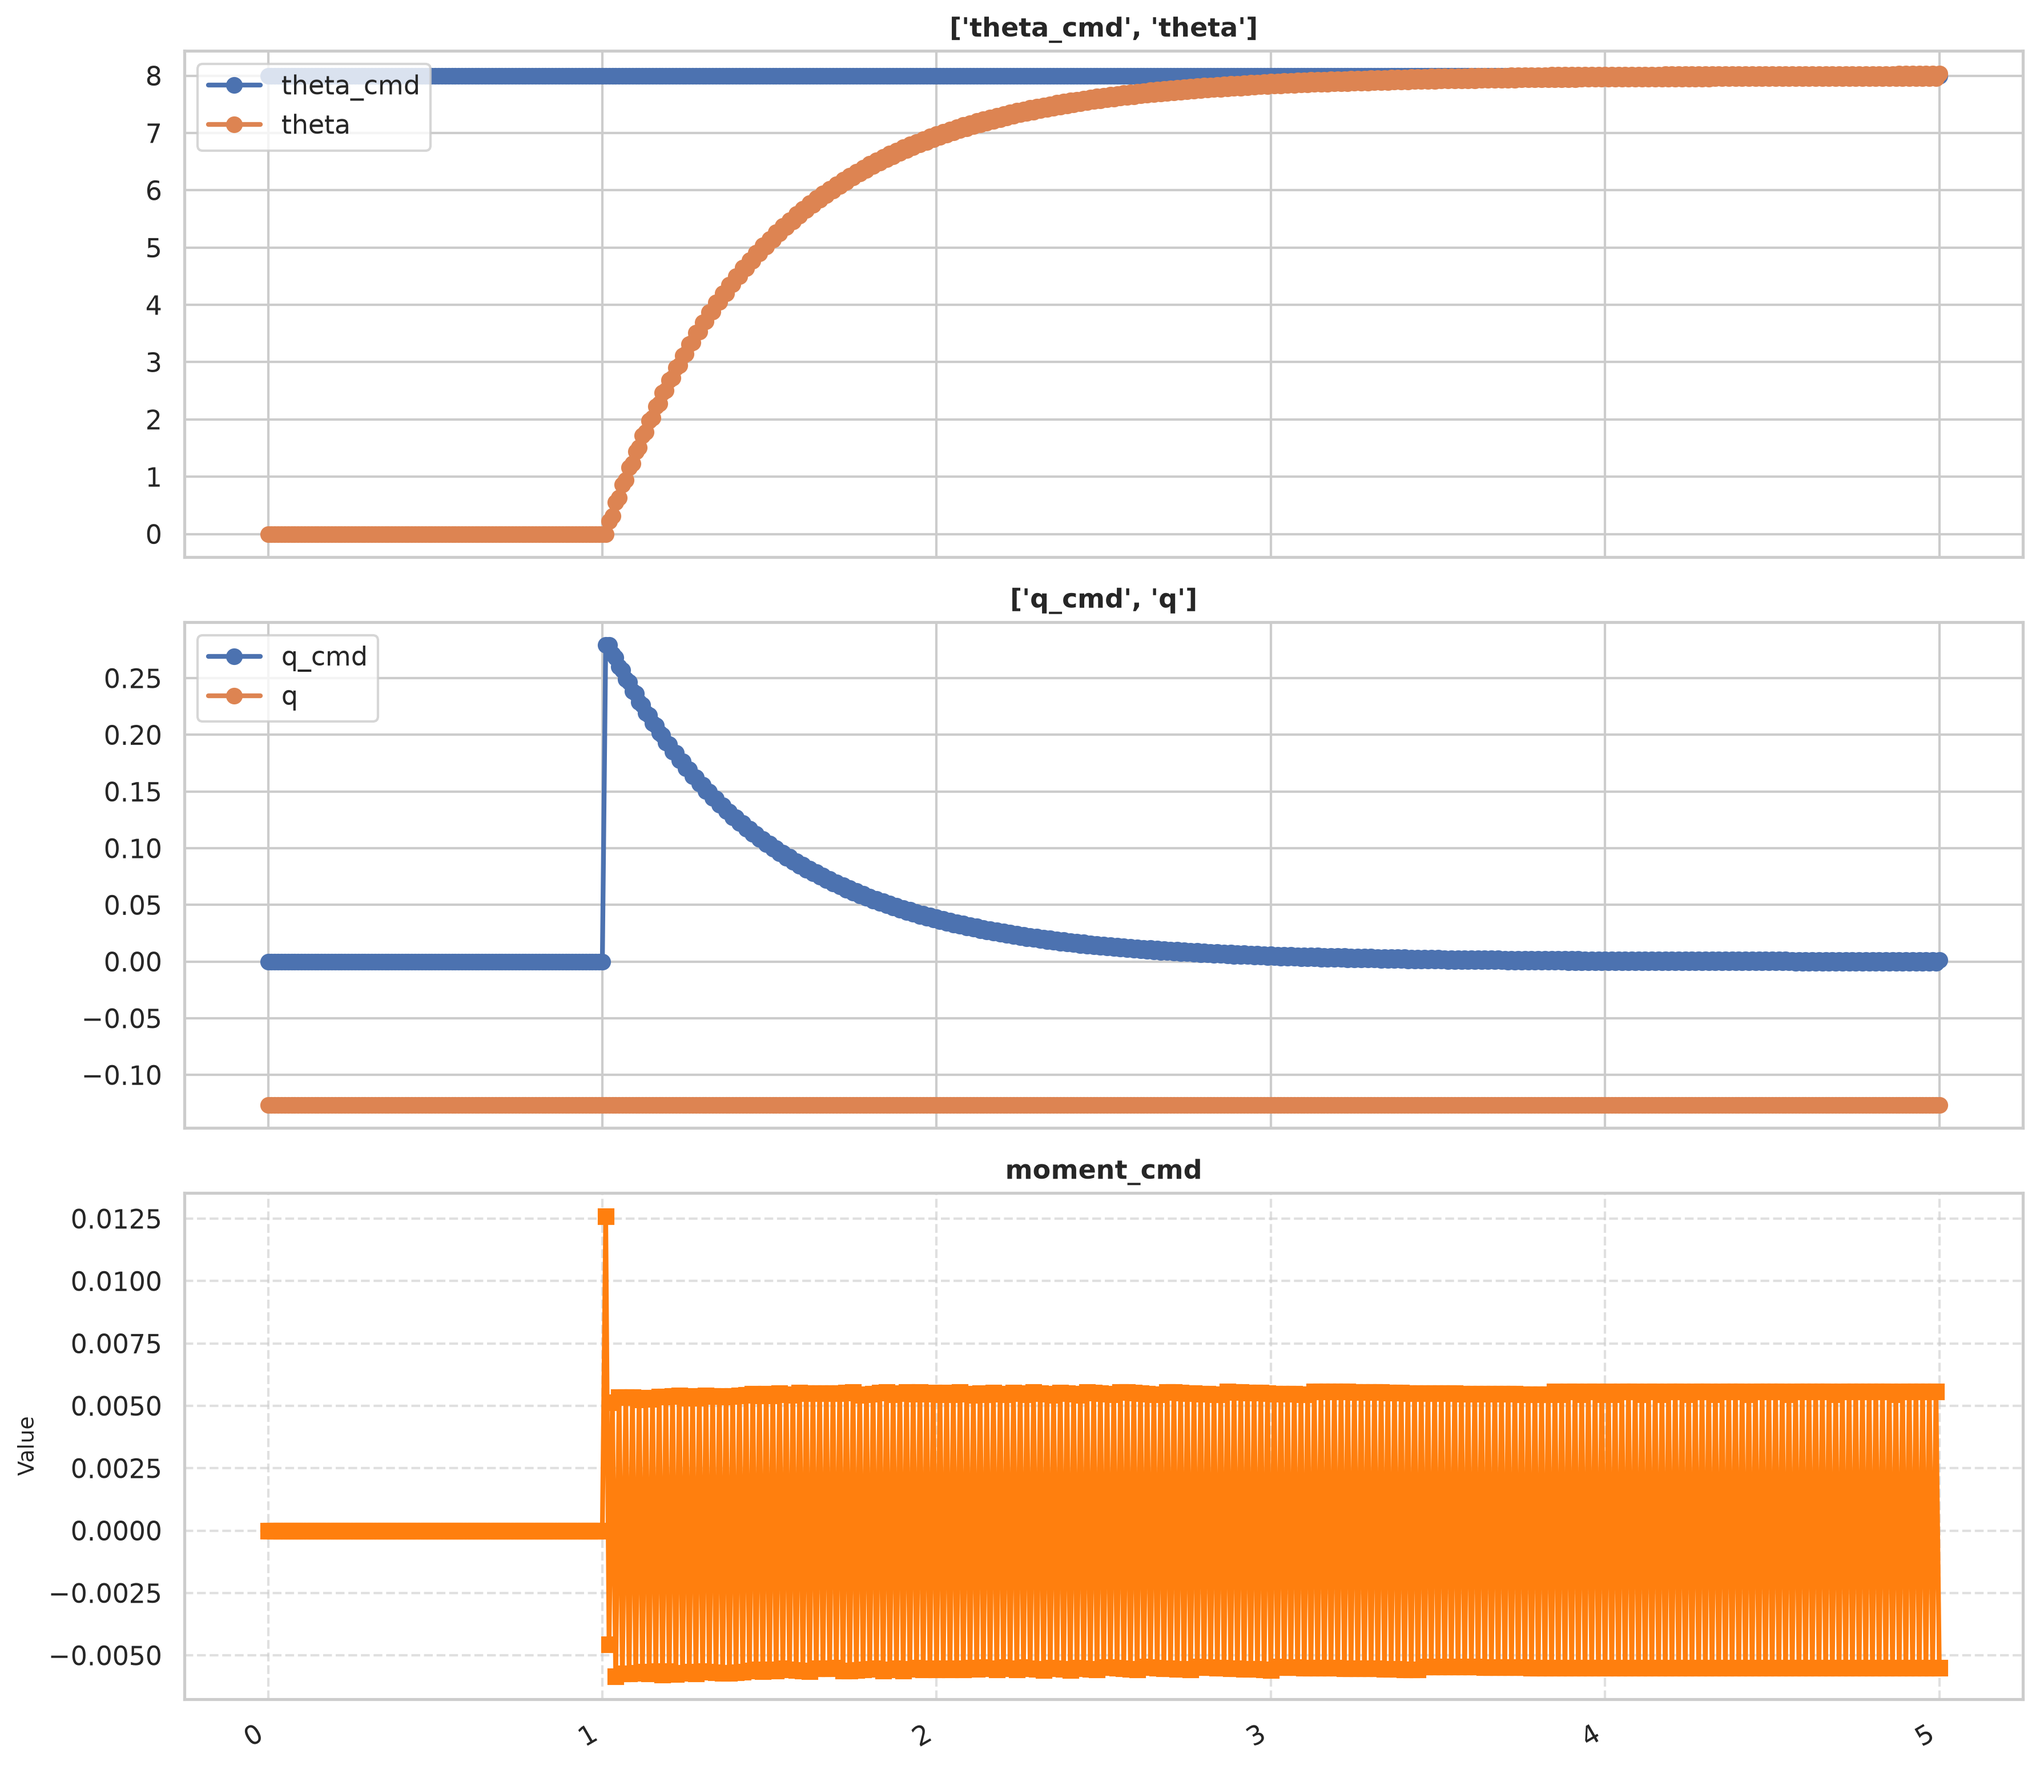
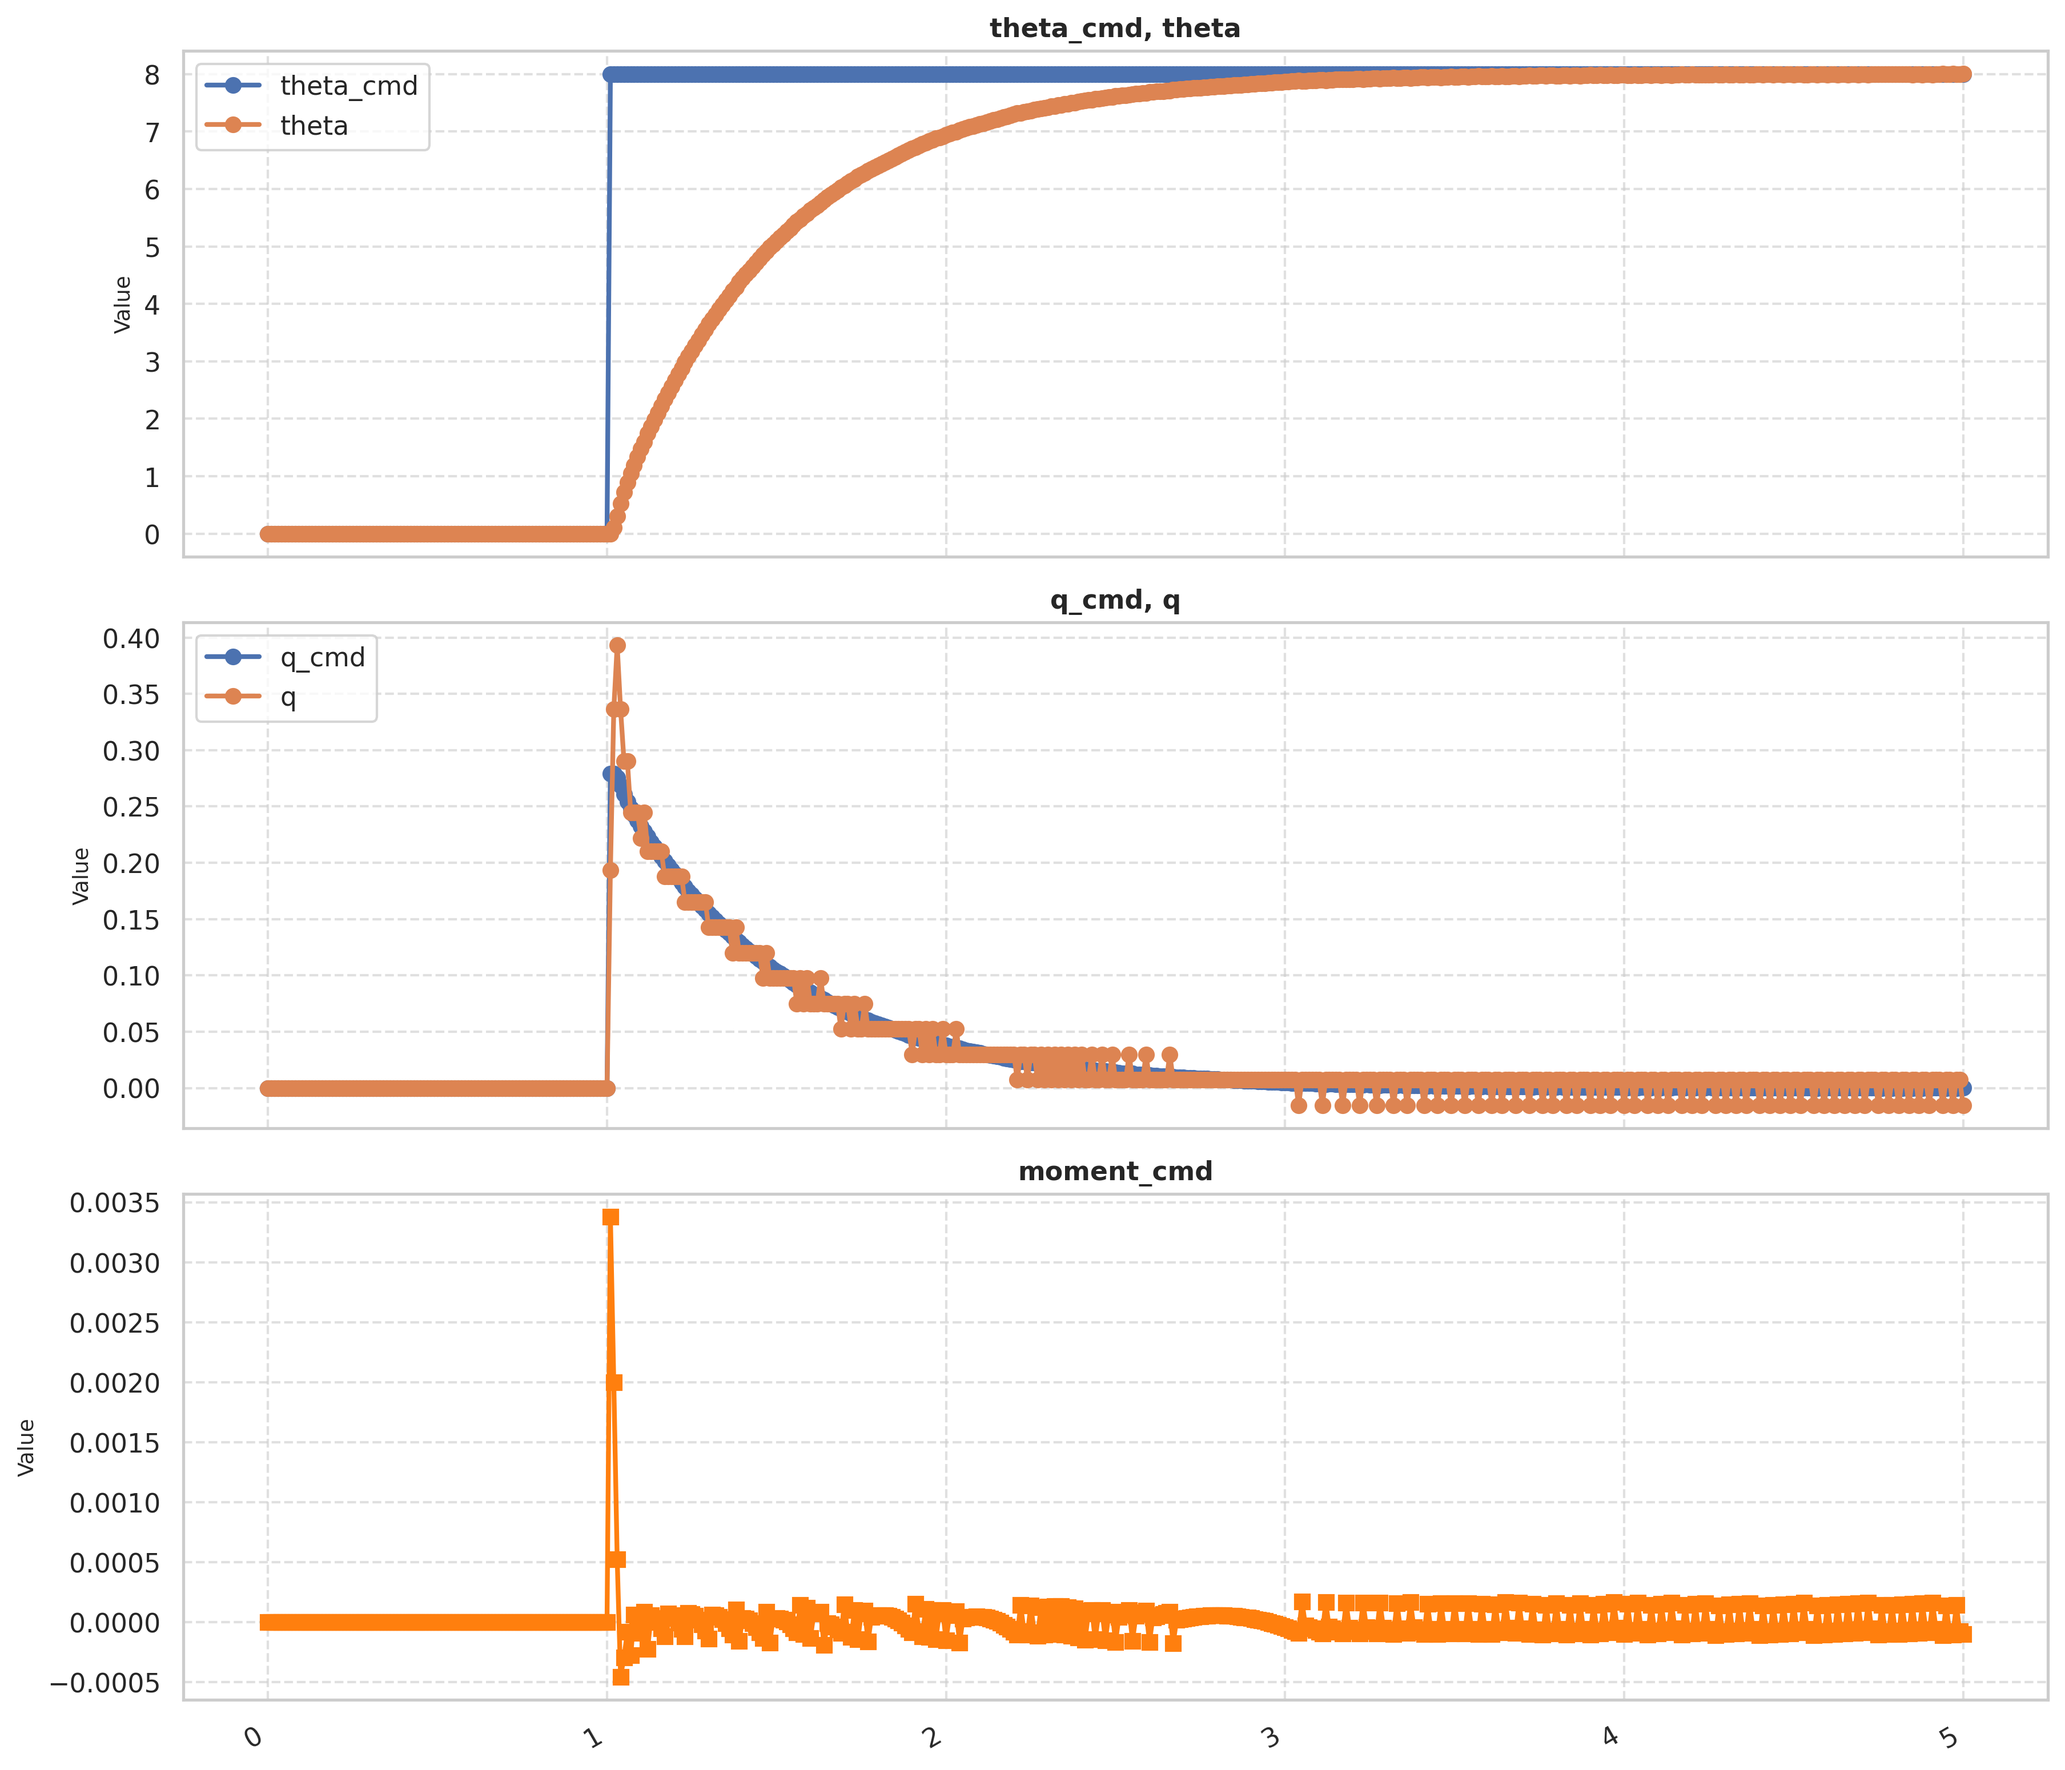
Tested roll control with TF (tracking and stable) and SS (unstable for now). Added a plotter function (AI gen)

diff --git a/Aerospace/control/control_linear_model.py b/Aerospace/control/control_linear_model.py
@@ -28,6 +28,7 @@ if PROJECT_ROOT not in sys.path:
 
 from controller.pid_control import PIDController
 from interface.multirotor.DJI_Mavic_Pro.vehicle_interface import VehicleInterface
+from tools.plotter import plot_results
 from simulations.Aerospace.sixDOF.numerical_integrators.numerical_integrator import rk4
 from simulations.Aerospace.sixDOF.tools.state_space import StateSpace
 from simulations.Aerospace.sixDOF.vehicle_models.multirotor.quadcopter import Quad_X_DJI_Mavic_Pro
@@ -154,8 +155,9 @@ def pitch_channel_state_space():
     lin_plant = StateSpace(lin_plant_A, lin_plant_B, np.eye(4), np.zeros((4,4)), dt)
 
     # Taking gains that were used in PID control of simple pitch model
-    kp_q = 0.0432
-    ki_q = 0.192
+    # Gains are tuned to minimize chattering, not fully gone though
+    kp_q = 0.0432*0.2
+    ki_q = 0.192*1.8
     kp_theta = 2
 
     q_ctrlr = PIDController(kp_q, ki_q, 0., dt, output_limit=[-50, 50], integral_limit=[0,0])
@@ -222,15 +224,12 @@ def pitch_channel_state_space():
     # ####################################
     # Plotting using seaborn and pandas
     # ####################################
-    # Set Seaborn aesthetic theme
-    sns.set_theme(style="whitegrid")
-
     # 1. Define your data lists in a dictionary
-    df = pd.DataFrame({
+    df_sim = pd.DataFrame({
         "t_s": t_s,
         "theta": np.rad2deg(theta_history),
-        "theta_cmd": np.rad2deg(theta_cmd),
-        "q": q,
+        "theta_cmd": np.rad2deg(theta_cmd_history),
+        "q": q_history,
         "q_cmd": q_cmd_history,
         "moment_cmd": moment_history,
         "rpm1": rpm_u1,
@@ -238,74 +237,207 @@ def pitch_channel_state_space():
         "rpm3": rpm_u3,
         "rpm4": rpm_u4,
     })
-    # 3. Define the layout of your subplots and what goes into each box
-    # Each item in the list defines a subplot: 
-    # - if it's a string, it plots 1 line.
-    # - if it's a list/tuple of strings, it overlays multiple lines on that subplot!
+
     subplot_configs = [
         ["theta_cmd", "theta"],  # <-- Overlaid on the first subplot
         ["q_cmd", "q"],
         "moment_cmd",
     ]
+    save_path = "savefig/linear/pitch_control_SS_step.png"
 
-    num_plots = len(subplot_configs)
-    ncols = 1
-    nrows = math.ceil(num_plots / ncols) if "math" else -1
+    plot_results(df_sim, subplot_configs, save_path)
 
-    # Let's use matplotlib's subplots directly with pandas for full control over overlays
-    fig, axes = plt.subplots(
-        nrows=nrows,
-        ncols=ncols,
-        figsize=(12, nrows * 3.5),
-        sharex=True,
-    )
-    axes = axes.flatten()
+def roll_channel_simple_rigid_model():
+    dt = 0.01
+    vmod = Quad_X_DJI_Mavic_Pro()
+    v_inf = VehicleInterface()
+    Ixx = vmod.Jxx_b_kgm2
 
-    # 4. Loop through configurations and plot
-    for i, config in enumerate(subplot_configs):
-        ax = axes[i]
+    # Controller requirements,
+    # pitch rate controller (PI):
+    # choosing natural freq: 8 rad/s
+    # damping ratio: 0.9
+    # Analytically calculated gains,
+    # kp = 2 * zeta * omega * Ixx = 0.0432
+    # ki = omega^2 * Iyy = 0.192
+    # Took same gains for pitch coz drone is symmetric 
+    kp = 0.0432
+    ki = 0.192
 
-    # Check if this subplot needs multiple lines overlaid
-        if isinstance(config, (list, tuple)):
-            for col in config:
-                ax.plot(
-                    df["t_s"],
-                    df[col],
-                    marker="o",
-                    linewidth=2,
-                    label=col,  # Label for legend
-                )
-            ax.legend(loc="upper left")  # Show legend to distinguish lines
-            ax.set_title(config, fontsize=11, fontweight="bold")
-    else:
-        # Single line plot
-        ax.plot(
-            df["t_s"],
-            df[config],
-            marker="s",
-            color="tab:orange",
-            linewidth=2,
-            label=config,
-        )
-        ax.set_title(config, fontsize=11, fontweight="bold")
+    p_ctrlr = PIDController(kp, ki, 0., dt, output_limit=[-50,50], integral_limit=[0,0])
 
-    ax.set_ylabel("Value", fontsize=9)
-    ax.grid(True, linestyle="--", alpha=0.6)
+    # pitch controller (P):
+    # since the outer loop must be slower than inner loop, 
+    # we choose kp < inner loop's natural freq
+    #   kp < omega => kp < 8 rad/s
+    kp_phi = 2
+    phi_ctrlr = PIDController(kp_phi, 0., 0., dt, output_limit=[-10,10])
 
-    # 5. Hide unused empty subplot slots
-    for j in range(num_plots, len(axes)):
-        fig.delaxes(axes[j])
+    # Set time conditions
+    t0_s = 0.0
+    tf_s = 5.
+    h_s  = 0.01
+    t_s = np.arange(t0_s, tf_s + h_s, h_s)
+    nt_s = t_s.size
 
-    # Formatting and layout
-    fig.autofmt_xdate()
-    plt.tight_layout()
-    plt.savefig(
-    "savefig/linear/pitch_control_SS_step.png",
-    dpi=300,  # High resolution
-    bbox_inches="tight",  # Prevents labels/titles from getting cut off
-    )
-    plt.show()
+    # init conditions
+    p = 0.0
+    phi = 0.
+
+    p_history = []
+    p_cmd_history = []
+    moment_history = []
+    p_dot_history = []
+    err_history = []
+    phi_history = []
+    phi_cmd_history = []
+
+    for t in t_s:
+
+        # Pitch reference (rad)
+        phi_cmd = np.deg2rad(15.0) if t >= 1. and t < 3 else np.deg2rad(-10.0) if t >= 3  else 0.
+
+        # Pitch-rate reference (rad/s)
+        # q_cmd = np.deg2rad(20.0) if t >= 0.5 else 0.0
+
+        # P controller: commanded roll
+        p_cmd = phi_ctrlr.pid(phi_cmd, phi)
+        phi_error = phi_ctrlr.error
+        # PI controller: commanded pitch moment
+        Mx_cmd = p_ctrlr.pid(p_cmd, p)
+        p_error = p_ctrlr.error
+
+        # Rigid-body dynamics
+        p_dot = Mx_cmd / Ixx
+        phi_dot = p
+
+        # Integrate plant using Euler integration
+        p += p_dot * dt
+        phi += p * dt
+
+        # Log signals
+        err_history.append(phi_error)
+        phi_history.append(phi)
+        phi_cmd_history.append(phi_cmd)
+        p_history.append(p)
+        p_dot_history.append(p_dot)
+        p_cmd_history.append(p_cmd)
+        moment_history.append(Mx_cmd)
+
+    df_sim = pd.DataFrame({
+        "t_s": t_s,
+        "phi": np.rad2deg(phi_history),
+        "phi_cmd": np.rad2deg(phi_cmd_history),
+        "p": p_history,
+        "p_cmd": p_cmd_history,
+        "moment_cmd": moment_history,
+    })
+
+    subplot_config = [
+        ["phi_cmd", "phi"],
+        ["p_cmd", "p"],
+        ["moment_cmd"],
+    ]
+
+    plot_results(df_sim, subplot_config, 'savefig/linear/roll_control_TF.png')
+
+def roll_channel_state_space():
+    dt = 0.01
+    vmod = Quad_X_DJI_Mavic_Pro()
+    v_inf = VehicleInterface()
+    with np.load('../../simulations/Aerospace/sixDOF/dataset/DJI_mavic_pro_lat.npz') as data:
+        lin_plant_A = data['Alat']
+        lin_plant_B = data['Blat']
+
+    lin_plant = StateSpace(lin_plant_A, lin_plant_B, np.eye(5), np.zeros((5,4)), dt)
+
+    # Taking gains that were used in PID control of simple pitch model
+    # Gains are tuned to minimize chattering, not fully gone though
+    kp_p = 0.0432 * 1
+    ki_p = 0.192 * 1
+    kp_phi = 2 * 1
+
+    p_ctrlr = PIDController(kp_p, ki_p, 0., dt, output_limit=[-50, 50], integral_limit=[0,0])
+    phi_ctrlr  = PIDController(kp_phi, 0., 0., dt, output_limit=[-10,10])
+
+    # Set time conditions
+    t0_s = 0.0
+    tf_s = 5.
+    h_s  = 0.01
+    t_s = np.arange(t0_s, tf_s + h_s, h_s)
+    nt_s = t_s.size
+
+    # init conditions
+    p = 0.0
+    phi = 0.
+
+    p_history = []
+    p_cmd_history = []
+    moment_history = []
+    p_dot_history = []
+    err_history = []
+    phi_history = []
+    phi_cmd_history = []
+    x = np.array([0.] * 5)
+    rpm_u1 = []
+    rpm_u2 = []
+    rpm_u3 = []
+    rpm_u4 = []
+    
+
+    for i, t in enumerate(t_s):
+
+        # roll reference (rad)
+        phi_cmd = np.deg2rad(8.0) if t > 1. else 0.
+
+        # P controller: commanded pitch
+        p_cmd = phi_ctrlr.pid(phi_cmd, phi)
+        phi_error = phi_ctrlr.error
+        # PI controller: commanded pitch moment
+        Mx_cmd = p_ctrlr.pid(p_cmd, p)
+        p_error = p_ctrlr.error
+
+        u = v_inf.u_cmd_perturb([0., Mx_cmd, 0., 0.], [0]*4, 1.2)
+
+        x += dt * lin_plant._derivatives(0, x, u)
+        p = x[2]
+        phi = x[3]
+
+        # Log signals
+        err_history.append(phi_error)
+        phi_history.append(phi)
+        phi_cmd_history.append(phi_cmd)
+        p_history.append(p)
+        p_cmd_history.append(p_cmd)
+        moment_history.append(Mx_cmd)
+        rpm_u1.append(u[0])
+        rpm_u2.append(u[1])
+        rpm_u3.append(u[2])
+        rpm_u4.append(u[3])
+
+    df_sim = pd.DataFrame({
+        "t_s": t_s,
+        "phi": np.rad2deg(phi_history),
+        "phi_cmd": np.rad2deg(phi_cmd_history),
+        "p": p_history,
+        "p_cmd": p_cmd_history,
+        "moment_cmd": moment_history,
+        "rpm1": rpm_u1,
+        "rpm2": rpm_u2,
+        "rpm3": rpm_u3,
+        "rpm4": rpm_u4,
+        })
+    
+    subplot_config = [
+            ["phi_cmd", "phi"],
+            ["p_cmd", "p"],
+            ["moment_cmd"],
+        ]
+    
+    plot_results(df_sim, subplot_config, 'savefig/linear/roll_control_step_SS.png')
 
 if __name__ == '__main__':
     # pitch_channel_simple_rigid_model()
-    pitch_channel_state_space()
+    # pitch_channel_state_space()
+    # roll_channel_simple_rigid_model()
+    roll_channel_state_space()

diff --git a/Aerospace/control/tools/plotter.py b/Aerospace/control/tools/plotter.py
@@ -1,0 +1,95 @@
+import math
+import matplotlib.pyplot as plt
+import numpy as np
+import pandas as pd
+import seaborn as sns
+
+def plot_results(df, subplot_configs, save_path, dpi=300, show_plt = False):
+    """
+    Plots time-series simulation data from a DataFrame based on subplot configurations.
+    
+    Parameters:
+    -----------
+    df : pd.DataFrame
+        DataFrame containing the time series data (must include 't_s' column).
+    subplot_configs : list
+        List specifying the layout. Elements can be:
+        - A string: plots a single line for that column.
+        - A list or tuple of strings: overlays multiple lines on that subplot.
+    save_path : str, optional
+        File path to save the generated figure. Set to None to skip saving.
+    dpi : int, optional
+        Resolution for the saved figure.
+    """
+    sns.set_theme(style="whitegrid")
+
+    num_plots = len(subplot_configs)
+    ncols = 1
+    nrows = math.ceil(num_plots / ncols)
+
+    # Create subplots
+    fig, axes = plt.subplots(
+        nrows=nrows,
+        ncols=ncols,
+        figsize=(12, nrows * 3.5),
+        sharex=True,
+    )
+    
+    # Ensure axes is always iterable (even if nrows == 1)
+    if num_plots == 1:
+        axes = np.array([axes])
+    else:
+        axes = axes.flatten()
+
+    # Loop through configurations and plot
+    for i, config in enumerate(subplot_configs):
+        ax = axes[i]
+
+        # Check if this subplot needs multiple lines overlaid
+        if isinstance(config, (list, tuple)):
+            for col in config:
+                ax.plot(
+                    df["t_s"],
+                    df[col],
+                    marker="o",
+                    linewidth=2,
+                    label=col,  # Label for legend
+                )
+            ax.legend(loc="upper left")  # Show legend to distinguish lines
+            title_str = ", ".join(config)
+            ax.set_title(title_str, fontsize=11, fontweight="bold")
+        else:
+            # Single line plot
+            ax.plot(
+                df["t_s"],
+                df[config],
+                marker="s",
+                color="tab:orange",
+                linewidth=2,
+                label=config,
+            )
+            ax.set_title(config, fontsize=11, fontweight="bold")
+
+        ax.set_ylabel("Value", fontsize=9)
+        ax.grid(True, linestyle="--", alpha=0.6)
+
+    # Hide unused empty subplot slots
+    for j in range(num_plots, len(axes)):
+        fig.delaxes(axes[j])
+
+    # Formatting and layout
+    fig.autofmt_xdate()
+    plt.tight_layout()
+
+    if save_path:
+        plt.savefig(
+            save_path,
+            dpi=dpi,
+            bbox_inches="tight",  # Prevents labels/titles from getting cut off
+        )
+
+    if show_plt:
+        plt.show()
+
+    else:
+        plt.close(fig)
